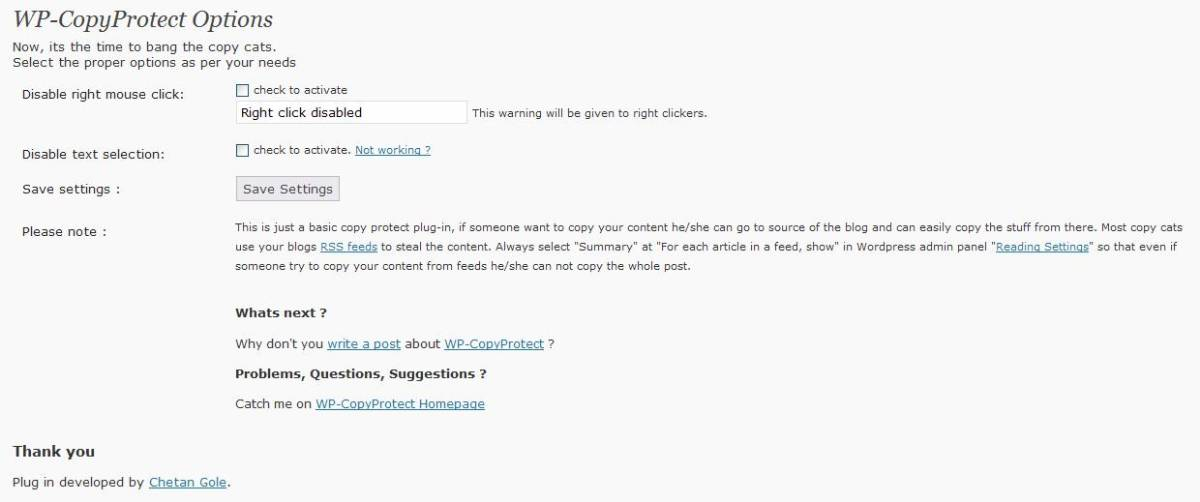
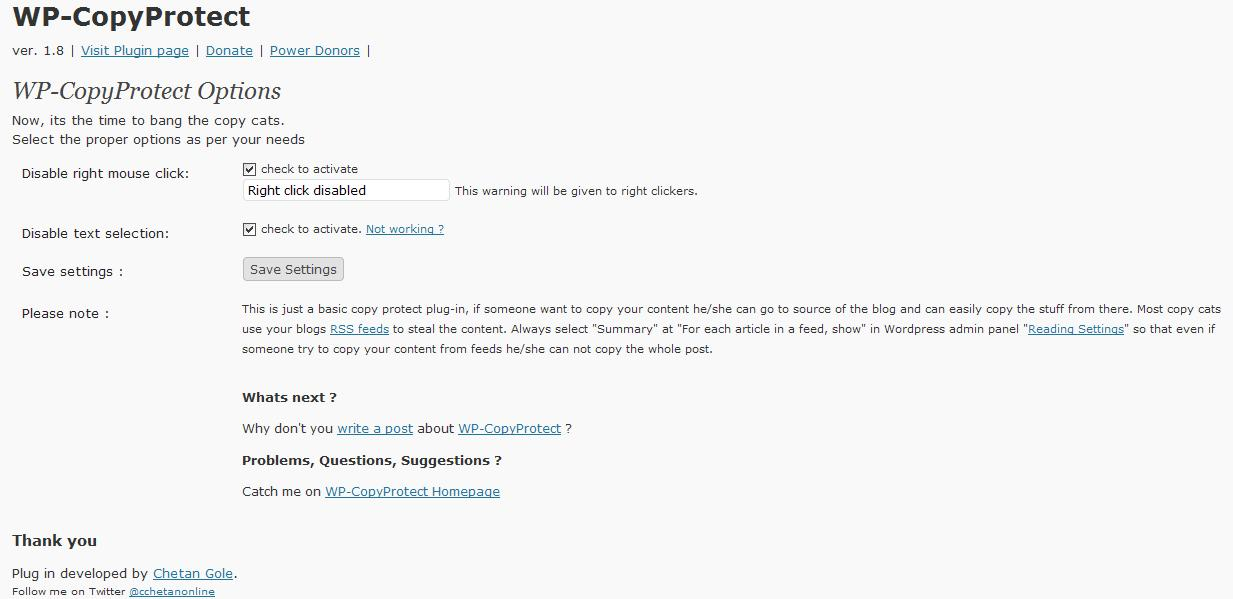
releasing version 1.8
git-svn-id: https://plugins.svn.wordpress.org/wp-copyprotect/trunk@127409 b8457f37-d9ea-0310-8a92-e5e31aec5664

diff --git a/wp-copyprotect.php b/wp-copyprotect.php
@@ -3,13 +3,13 @@
 Plugin Name: WP-CopyProtect
 Plugin URI: http://www.thechetan.com/wp-copyprotect/
 Description: This plug-in will protect your blog content from being copied. A simple plug-in developed to stop the Copy cats.
-Version: 1.7
+Version: 1.8
 Author: Chetan Gole
 Author URI: http://www.thechetan.com/
 */
 
 /*
-Copyright 2008  Chetan Gole, IN  (http://www.thechetan.com)
+Copyright 2008  Chetan Gole, IN  (http://www.thechetan.com/)
 
 This program is free software; you can redistribute it and/or modify
 it under the terms of the GNU General Public License as published by
@@ -32,7 +32,7 @@ function CopyProtect_no_right_click($CopyProtect_click_message)
 <!--
 
 /***************************************************************************************************************
-*Copyprotection for this site is provided by WP-CopyProtect v1.7 visit www.TheChetan.com/wp-copyprotect/ for more details
+*Copyprotection for this site is provided by WP-CopyProtect v1.8 visit www.TheChetan.com/wp-copyprotect/ for more details
 *RightClick Disabled, Please DO NOT COPY.
 ***************************************************************************************************************/
 
@@ -71,35 +71,29 @@ document.oncontextmenu=new Function("alert(message);return false")
 <?php
 }
 
-
-
 // No selection header - Now your content is protected from copy and paste guys
 function CopyProtect_no_select()
 {
 ?>
 <script type="text/javascript">
-
 /***************************************************************************************************************
-*Copyprotection for this site is provided by WP-CopyProtect v1.7 visit www.TheChetan.com/wp-copyprotect/ for more details
+*Copyprotection for this site is provided by WP-CopyProtect v1.8 visit www.TheChetan.com/wp-copyprotect/ for more details
 *Selection Disabled, Please DO NOT COPY.
-***************************************************************************************************************/
-
+**************************************************************************************************************/
 function disableSelection(target){
-if (typeof target.onselectstart!="undefined") //IE route
+if (typeof target.onselectstart!="undefined") //For IE 
 	target.onselectstart=function(){return false}
-else if (typeof target.style.MozUserSelect!="undefined") //Firefox route
+else if (typeof target.style.MozUserSelect!="undefined") //For Firefox
 	target.style.MozUserSelect="none"
-else //All other route (ie: Opera)
+else //All other route (For Opera)
 	target.onmousedown=function(){return false}
 target.style.cursor = "default"
 }
 
 </script>
 
-
 <?php
 }
-
 
 // No selection footer 
 // Yes, You can remove this link from footer, but why ?, This plugin is protecting your content, so just donate me a backlink.
@@ -108,9 +102,9 @@ function CopyProtect_no_select_footer()
 {
 ?>
 <script type="text/javascript">
-disableSelection(document.body) //disable text selection on entire body of page
+disableSelection(document.body)
 </script>
-<small>Copy Protected by <a href="http://www.thechetan.com/wp-copyprotect/" target="_blank">WP-CopyProtect</a> Thanks to <a href="http://www.thechetan.com/" target="_blank">Chetan</a>.</small>
+<small>Copy Protected by <a href="http://www.thechetan.com/" target="_blank">Chetan</a>'s <a href="http://www.thechetan.com/wp-copyprotect/" target="_blank">WP-CopyProtect</a>.</small>
 <?php
 }
 
@@ -129,7 +123,8 @@ function CopyProtect_options_page()
 	$wp_CopyProtect_nts = get_option('CopyProtect_nts');
 	?>
 	<div class="wrap">
-	
+	<h1>WP-CopyProtect</h1> ver. 1.8
+	| <a href="http://www.thechetan.com/wp-copyprotect/" target="_blank" title="Visit homepage of wordpress plugin WP-CopyProtect">Visit Plugin page</a> | <a href="http://www.thechetan.com/wp-copyprotect/#donate" target="_blank" title="Donate some amount to WP-CopyProtect plugin developer to help him to develope more such plugins">Donate</a> | <a href="http://www.thechetan.com/wp-copyprotect/#donors" target="_blank" title="Few power donors,special thanks to them">Power Donors</a> | 
 	<h2>WP-CopyProtect Options</h2>
 	<form method="post" id="CopyProtect_options">
 		<fieldset class="options">
@@ -181,7 +176,8 @@ Most copy cats use your blogs <a href="/feed/" target="_blank">RSS feeds</a> to 
         </tr>
 		</table>
 		<h3>Thank you</h3>
-		Plug in developed by <a href="http://www.thechetan.com/" target="_blank">Chetan Gole</a>.
+		Plug in developed by <a href="http://www.thechetan.com/" target="_blank">Chetan Gole</a>. <br />
+		<small>Follow me on Twitter <a href="http://twitter.com/cchetanonline" target="_blank">@cchetanonline</a></small>
 		</fieldset>
 	</form>
 	</table>
